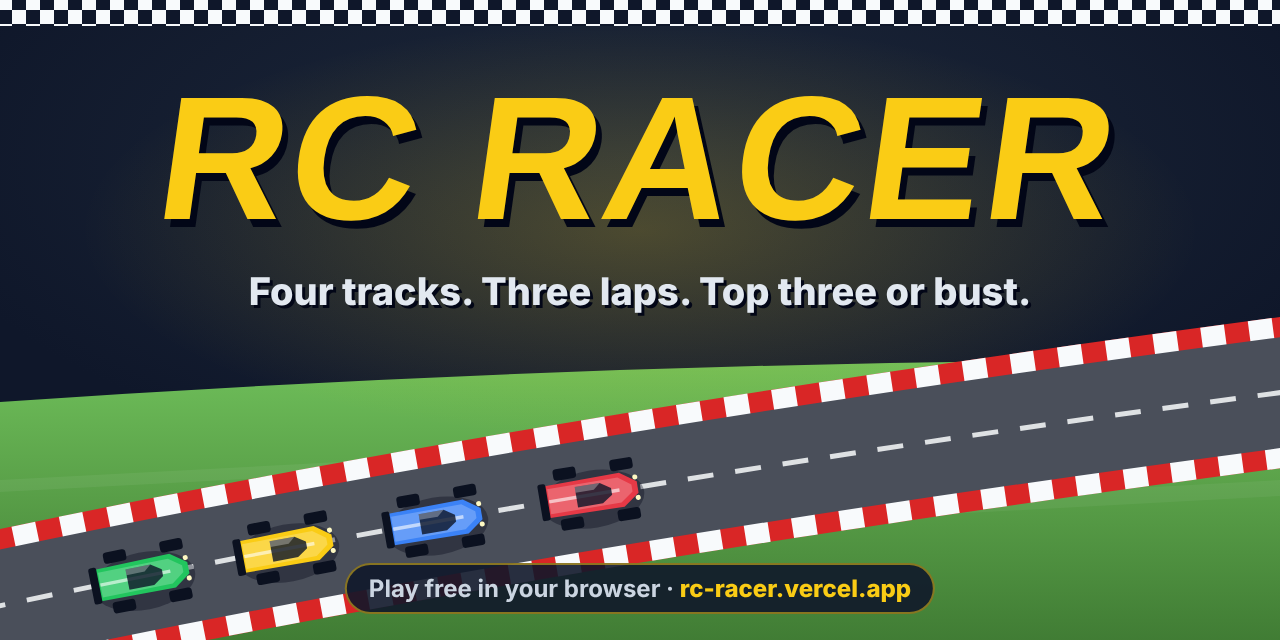
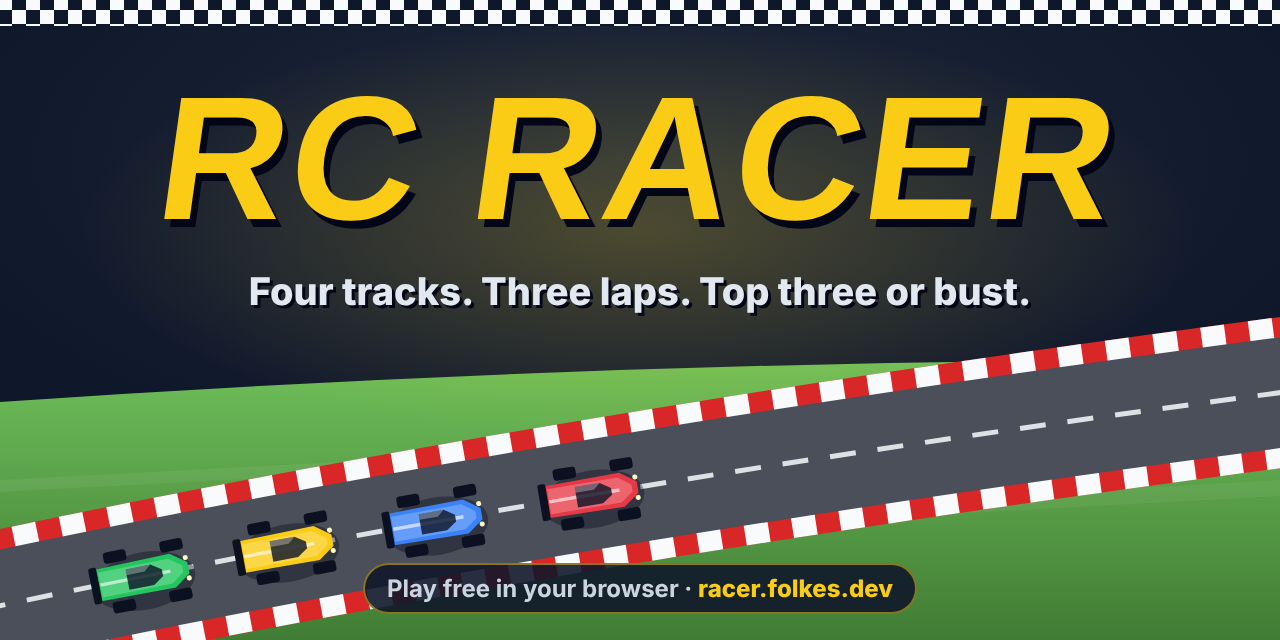
Point the site URL and preview images at racer.folkes.dev
- index.html: og:url, og:image and twitter:image
- og.html and social.html: footer pill text
- Re-rendered og.png and social-preview.png with the new URL

Claude-Session: https://claude.ai/code/session_01SU6ick8wG92i3ckxX9kvKA

Changed region(s): [[0.25, 0.875, 0.75, 0.9688]]

diff --git a/client/index.html b/client/index.html
@@ -20,8 +20,8 @@
       property="og:description"
       content="A retro RC racing game in your browser. Race three rivals across four themed tracks, grab missiles and bombs, hit the boost pads, and upgrade your car between races."
     />
-    <meta property="og:url" content="https://rc-racer.vercel.app/" />
-    <meta property="og:image" content="https://rc-racer.vercel.app/og.png" />
+    <meta property="og:url" content="https://racer.folkes.dev/" />
+    <meta property="og:image" content="https://racer.folkes.dev/og.png" />
     <meta property="og:image:width" content="1200" />
     <meta property="og:image:height" content="630" />
     <meta property="og:image:alt" content="RC RACER logo over a red RC car leading three rivals around a track" />
@@ -32,7 +32,7 @@
       name="twitter:description"
       content="A retro RC racing game in your browser. Race three rivals across four themed tracks, grab missiles and bombs, hit the boost pads, and upgrade your car between races."
     />
-    <meta name="twitter:image" content="https://rc-racer.vercel.app/og.png" />
+    <meta name="twitter:image" content="https://racer.folkes.dev/og.png" />
   </head>
   <body>
     <div id="app"></div>

diff --git a/client/design/og.html b/client/design/og.html
@@ -147,7 +147,7 @@
         <p class="tagline">Four tracks. Three laps. Top three or bust.</p>
       </div>
 
-      <div class="footer">Play free in your browser &middot; <b>rc-racer.vercel.app</b></div>
+      <div class="footer">Play free in your browser &middot; <b>racer.folkes.dev</b></div>
     </div>
   </body>
 </html>

diff --git a/client/design/social.html b/client/design/social.html
@@ -150,7 +150,7 @@
         <p class="tagline">Four tracks. Three laps. Top three or bust.</p>
       </div>
 
-      <div class="footer">Play free in your browser &middot; <b>rc-racer.vercel.app</b></div>
+      <div class="footer">Play free in your browser &middot; <b>racer.folkes.dev</b></div>
     </div>
   </body>
 </html>
